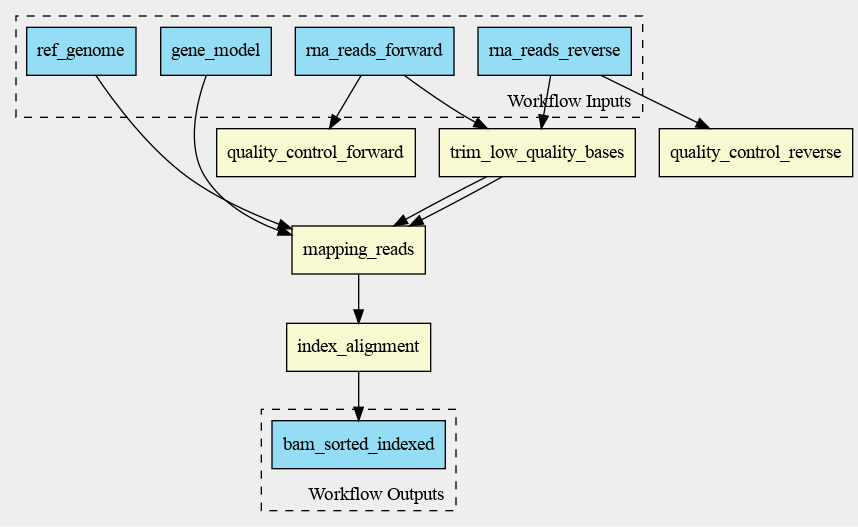
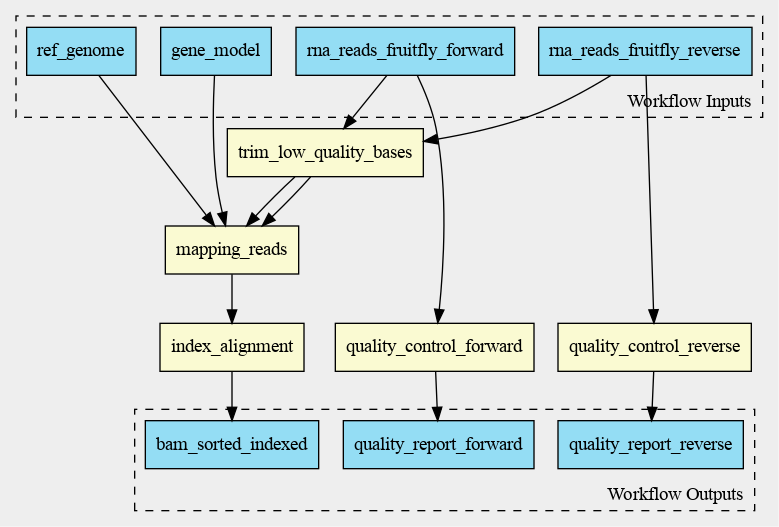
Reference fruitfly RNA in episode 3 (#118)
The inputs for rna_seq_workflow.cwl are renamed
to include fruitfly in their names. And the
explanatory text at the start has been expanded,
to explicitly link to the previous episode,
explaining the changes we're making here.

diff --git a/_episodes/03-dependency_graphs.md b/_episodes/03-dependency_graphs.md
@@ -21,10 +21,18 @@ keypoints:
 ---
 
 ## Multi-Step Workflow
-In the previous episode a single step workflow was shown. To make a multi-step workflow, you add more entries to the `steps` field.
-In this episode, the workflow is extended with the next two steps of the RNA-sequencing analysis.
-The next two steps are triming the reads and alignment of the trimmed reads.
+In the previous episode a single step workflow was shown, carrying out a simple RNA read
+of the fruitfly genome. In this episode the workflow is extended with an equivalent reverse
+RNA read and the next two steps of the RNA-sequencing analysis, trimming the reads and
+aligning the trimmed reads, are added.
 We will be using the [`cutadapt`](https://bio.tools/cutadapt)  and [`STAR`](https://bio.tools/star) tools for these tasks.
+
+To make a multi-step workflow that can carry all this analysis out, we add more entries
+to the `steps` field. Note that when the `quality_control` step is duplicated the two
+steps are named `quality_control_forward` and `quality_control_reverse`, to distinguish
+the separate forward and reverse RNA reads. Likewise, the `rna_reads_fruitfly` input becomes
+`rna_reads_fruitfly_forward`, and an `rna_reads_fruitfly_reverse` input is added.
+
 
 __rna_seq_workflow.cwl__
 ~~~
@@ -32,10 +40,10 @@ cwlVersion: v1.2
 class: Workflow
 
 inputs:
-  rna_reads_forward:
+  rna_reads_fruitfly_forward:
     type: File
     format: https://edamontology.org/format_1930  # FASTQ
-  rna_reads_reverse:
+  rna_reads_fruitfly_reverse:
     type: File
     format: https://edamontology.org/format_1930  # FASTQ
   ref_genome: Directory
@@ -45,20 +53,20 @@ steps:
   quality_control_forward:
     run: bio-cwl-tools/fastqc/fastqc_2.cwl
     in:
-      reads_file: rna_reads_forward
+      reads_file: rna_reads_fruitfly_forward
     out: [html_file]
 
   quality_control_reverse:
     run: bio-cwl-tools/fastqc/fastqc_2.cwl
     in:
-      reads_file: rna_reads_reverse
+      reads_file: rna_reads_fruitfly_reverse
     out: [html_file]
 
   trim_low_quality_bases:
     run: bio-cwl-tools/cutadapt/cutadapt-paired.cwl
     in:
-      reads_1: rna_reads_forward
-      reads_2: rna_reads_reverse
+      reads_1: rna_reads_fruitfly_forward
+      reads_2: rna_reads_fruitfly_reverse
       minimum_length: { default: 20 }
       quality_cutoff: { default: 20 }
     out: [ trimmed_reads_1, trimmed_reads_2, report ]
@@ -87,6 +95,12 @@ steps:
     out: [bam_sorted_indexed]
 
 outputs:
+  quality_report_forward:
+    type: File
+    outputSource: quality_control_forward/html_file
+  quality_report_reverse:
+    type: File
+    outputSource: quality_control_reverse/html_file
   bam_sorted_indexed:
     type: File
     outputSource: index_alignment/bam_sorted_indexed
@@ -117,11 +131,11 @@ This `ref_genome` is added in the `inputs` field of the workflow and in the YAML
 
 __workflow_input.yml__
 ~~~
-rna_reads_forward:
+rna_reads_fruitfly_forward:
   class: File
   location: rnaseq/GSM461177_1_subsampled.fastqsanger
   format: https://edamontology.org/format_1930  # FASTQ
-rna_reads_reverse:
+rna_reads_fruitfly_reverse:
   class: File
   location: rnaseq/GSM461177_2_subsampled.fastqsanger
   format: https://edamontology.org/format_1930  # FASTQ
